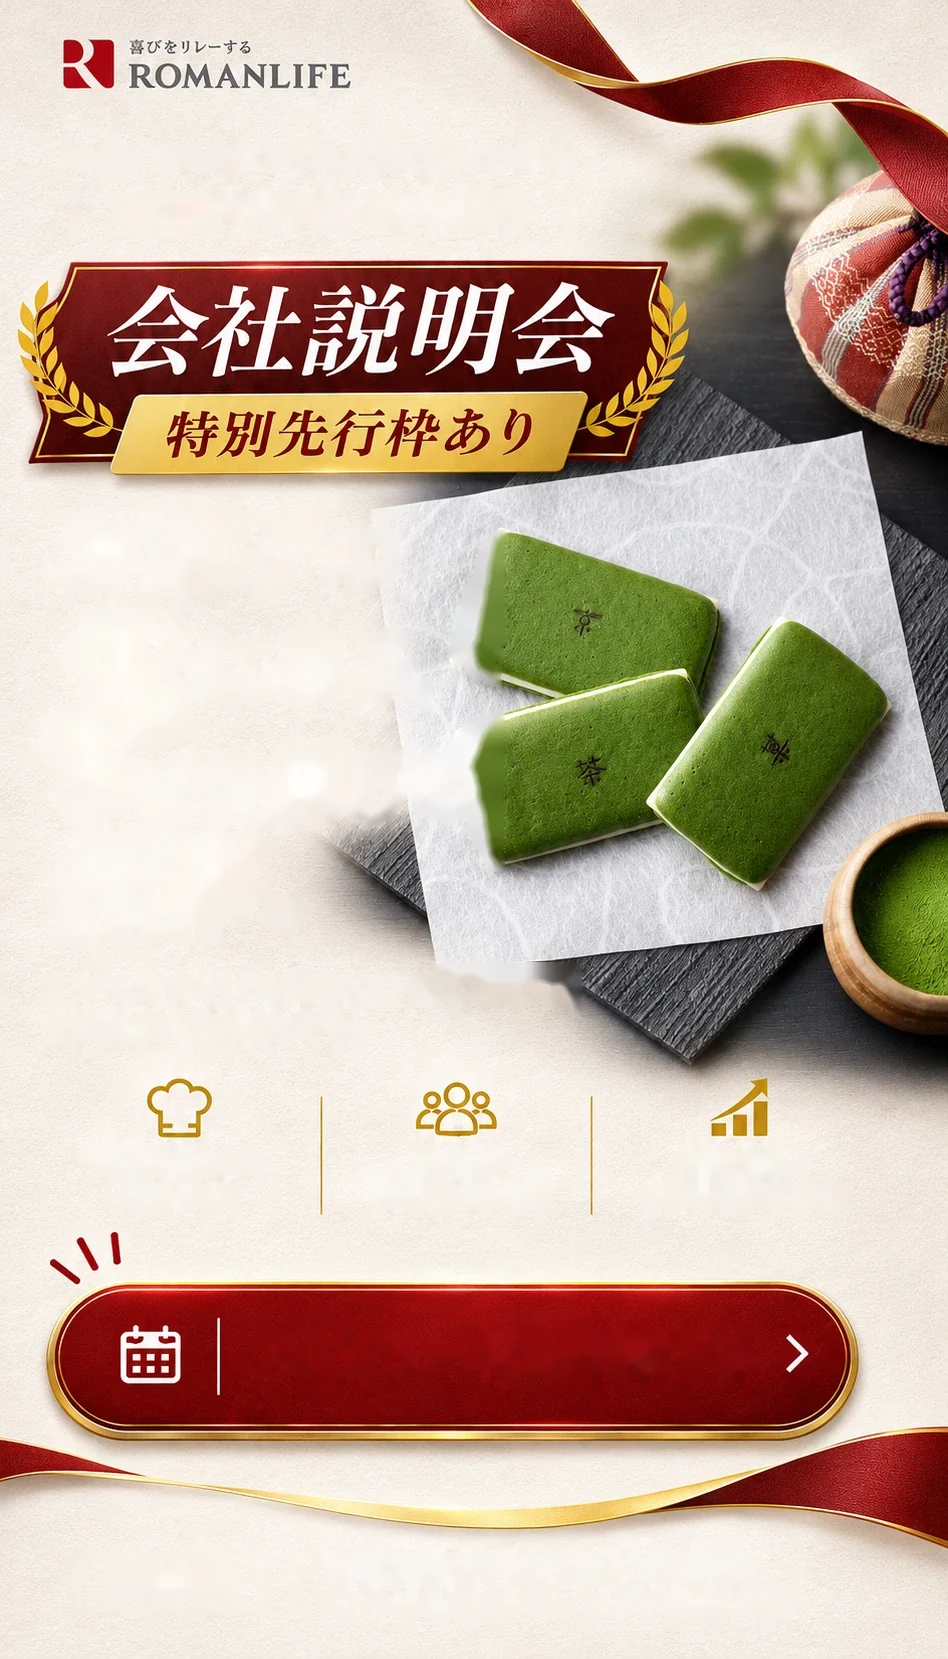
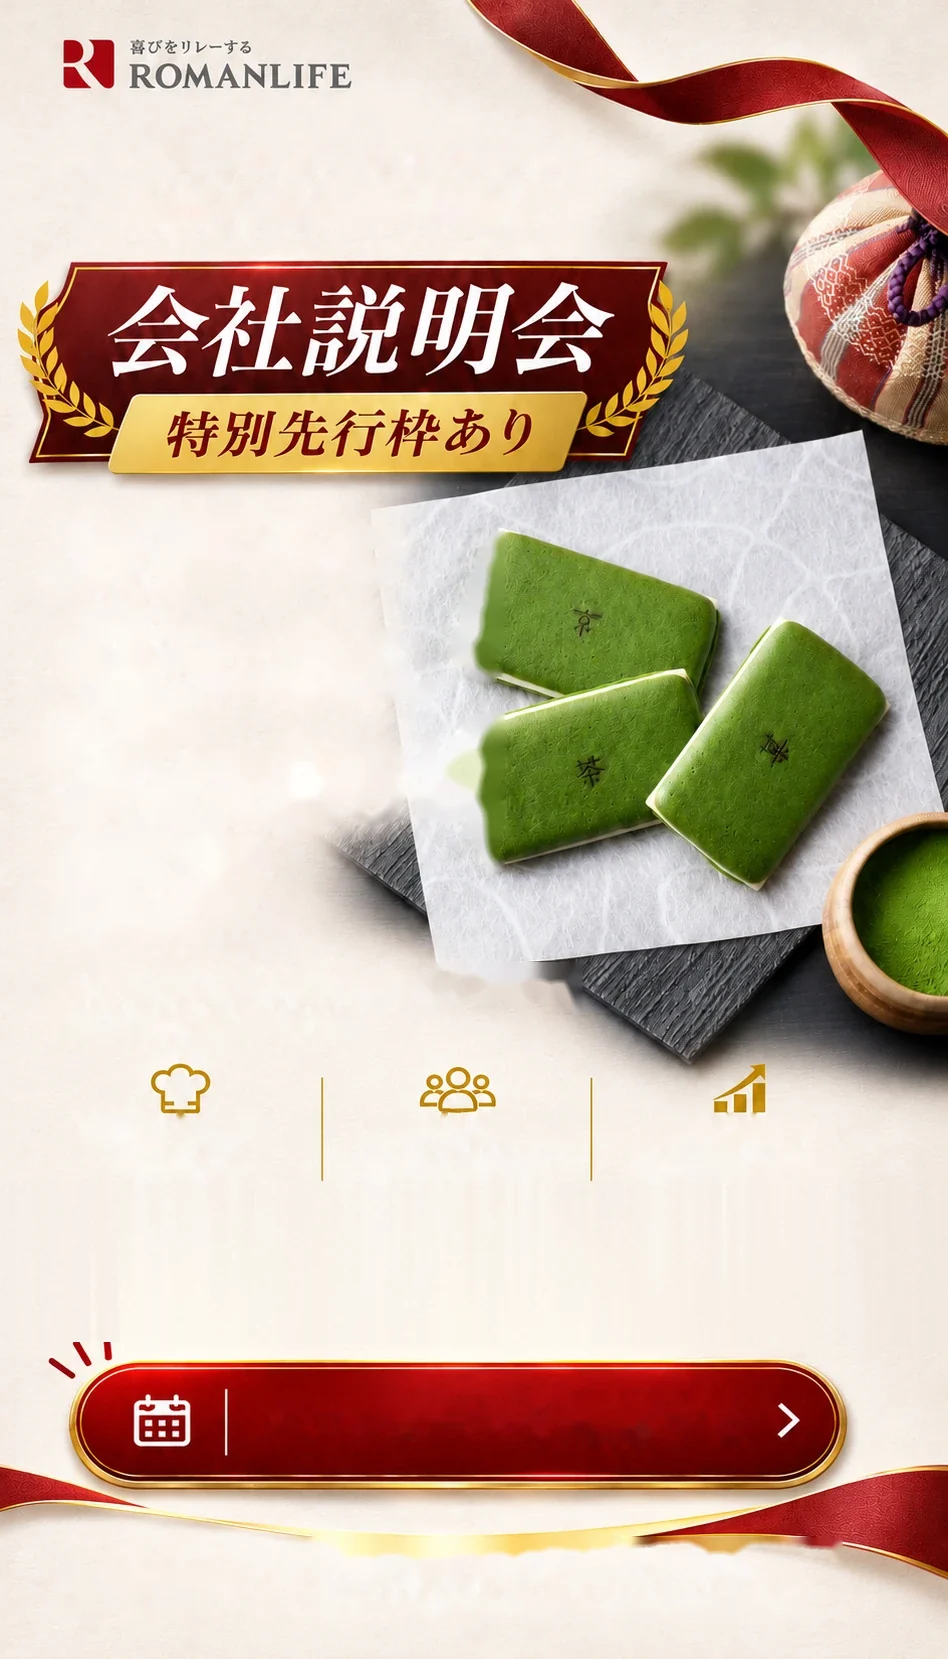
SP FV: update to the new design with session dates (11/23, 12/12) above the CTA
- New background plate; dates are HTML in a CSS frame and auto-hide after their date
- Feature labels and CTA moved to the new positions

Claude-Session: https://claude.ai/code/session_01DDNP1SBTqJgeZtS4CdBryt

diff --git a/public/entry-form.css b/public/entry-form.css
@@ -170,7 +170,7 @@
     width: 100%;
     aspect-ratio: 948 / 1659;
     container-type: inline-size;
-    background: #f6f1e6 url('assets/sp/fv-sp-bg.webp') center top / 100% 100% no-repeat;
+    background: #f6f1e6 url('assets/sp/fv-sp-bg.webp?v=20261117') center top / 100% 100% no-repeat;
     color: #2a1d18;
     font-family: 'FV Mincho', var(--serif);
     font-weight: 800;
@@ -275,7 +275,7 @@
   }
   .sp-fv-points {
     left: 0;
-    top: calc(1146 * var(--d));
+    top: calc(1121 * var(--d));
     width: 100%;
     display: grid;
     grid-template-columns: calc(360 * var(--d)) calc(190 * var(--d)) 1fr;
@@ -298,17 +298,17 @@
   .sp-fv-points li:nth-child(2) { position: absolute; left: calc(456 * var(--d)); transform: translateX(-50%); }
   .sp-fv-points li:nth-child(3) { position: absolute; left: calc(745 * var(--d)); transform: translateX(-50%); }
   .sp-fv-cta {
-    left: calc(45 * var(--d));
-    top: calc(1283 * var(--d));
-    width: calc(815 * var(--d));
-    height: calc(152 * var(--d));
-    border-radius: calc(76 * var(--d));
+    left: calc(70 * var(--d));
+    top: calc(1360 * var(--d));
+    width: calc(778 * var(--d));
+    height: calc(128 * var(--d));
+    border-radius: calc(64 * var(--d));
     display: flex;
     align-items: center;
-    padding-left: calc(205 * var(--d));
+    padding-left: calc(188 * var(--d));
     color: #fff;
     font-size: calc(46 * var(--d));
-    letter-spacing: -0.01em;
+    letter-spacing: 0.01em;
     text-decoration: none;
     white-space: nowrap;
     text-shadow: 0 calc(2 * var(--d)) calc(2 * var(--d)) rgba(60, 0, 0, 0.45);
@@ -326,6 +326,53 @@
     outline: 3px solid #f1cf87;
     outline-offset: 2px;
   }
+  /* 説明会の日程（過ぎた日程は entry-form.js が外し、残りが枠いっぱいに広がる） */
+  .sp-fv-dates {
+    left: calc(62 * var(--d));
+    top: calc(1198 * var(--d));
+    width: calc(825 * var(--d));
+    height: calc(137 * var(--d));
+    display: flex;
+    gap: calc(14 * var(--d));
+    padding: calc(13 * var(--d));
+    list-style: none;
+    background: #8b0b0b;
+    box-shadow: 0 calc(2 * var(--d)) calc(4 * var(--d)) rgba(70, 0, 0, 0.18);
+  }
+  .sp-fv-dates li {
+    flex: 1;
+    padding: calc(4 * var(--d)) 0 0 calc(42 * var(--d));
+    background: #fdf6eb;
+    color: #8b0b0b;
+  }
+  .sp-fv-dates p {
+    display: flex;
+    align-items: center;
+    gap: calc(18 * var(--d));
+    margin: 0;
+  }
+  .sp-fv-dates b {
+    font: 600 calc(66 * var(--d)) / 1 RLLatin, 'Cormorant Garamond', serif;
+    letter-spacing: 0.01em;
+  }
+  .sp-fv-dates span {
+    display: inline-flex;
+    align-items: center;
+    justify-content: center;
+    min-width: calc(83 * var(--d));
+    height: calc(45 * var(--d));
+    padding: 0 calc(10 * var(--d));
+    border: calc(2 * var(--d)) solid #c49a48;
+    font: 600 calc(21 * var(--d)) / 1 var(--serif);
+    color: #8b0b0b;
+  }
+  .sp-fv-dates time {
+    display: block;
+    margin-top: calc(0 * var(--d));
+    font: 600 calc(31 * var(--d)) / 1 RLLatin, 'Cormorant Garamond', serif;
+    letter-spacing: 0.1em;
+  }
+
   .sp-fv-venue {
     left: calc(75 * var(--d));
     top: calc(1551 * var(--d));

diff --git a/public/index.html b/public/index.html
@@ -23,9 +23,9 @@
   <link rel="preload" href="assets/fonts/mincho-600.woff2" as="font" type="font/woff2" crossorigin>
   <link rel="stylesheet" href="assets/fonts/fallback/fallback.css">
   <link rel="stylesheet" href="recruit-v2.css?v=20261025-3">
-  <link rel="stylesheet" href="assets/fonts/fv/fv-fonts.css?v=20261113-1">
-  <link rel="stylesheet" href="entry-form.css?v=20261116-1">
-  <link rel="preload" href="assets/sp/fv-sp-bg.webp" as="image" media="(max-width:700px)">
+  <link rel="stylesheet" href="assets/fonts/fv/fv-fonts.css?v=20261117-1">
+  <link rel="stylesheet" href="entry-form.css?v=20261117-1">
+  <link rel="preload" href="assets/sp/fv-sp-bg.webp?v=20261117" as="image" media="(max-width:700px)">
 </head>
 <body>
 <!-- Google Tag Manager (noscript) -->
@@ -57,6 +57,10 @@ height="0" width="0" style="display:none;visibility:hidden"></iframe></noscript>
         <li>商品企画から<br>携われる</li>
         <li>若手が<br>活躍する環境</li>
         <li>成長支援・<br>研修制度が充実</li>
+      </ul>
+      <ul class="sp-fv-dates" aria-label="説明会の日程">
+        <li data-session-date="2026-11-23"><p><b>11.23</b><span>月・祝</span></p><time>10:00–13:00</time></li>
+        <li data-session-date="2026-12-12"><p><b>12.12</b><span>土</span></p><time>14:00–17:00</time></li>
       </ul>
       <a class="sp-fv-cta" id="cta-sp-fv-schedule" href="#sessions" data-cta="sp_fv_schedule"><span>スケジュールを確認する</span></a>
       <p class="sp-fv-venue"><span class="sp-fv-venue-label">開催場所</span><span class="sp-fv-venue-body">株式会社ロマンライフ 本社<small>（マールブランシュ ロマンの森 2階）</small></span></p>
